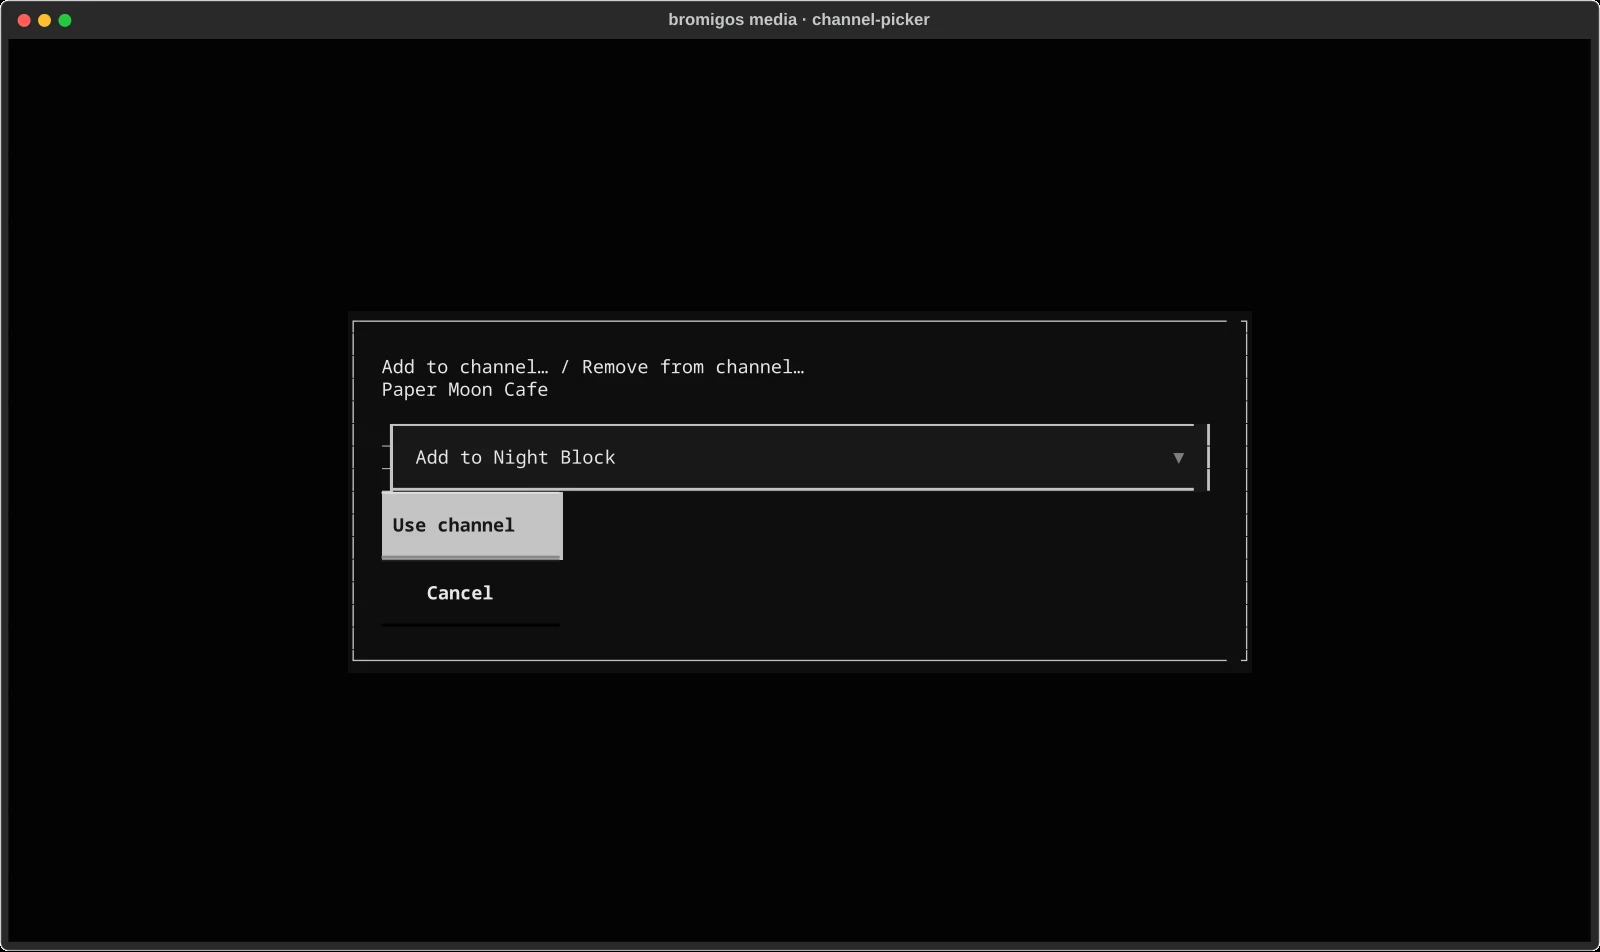
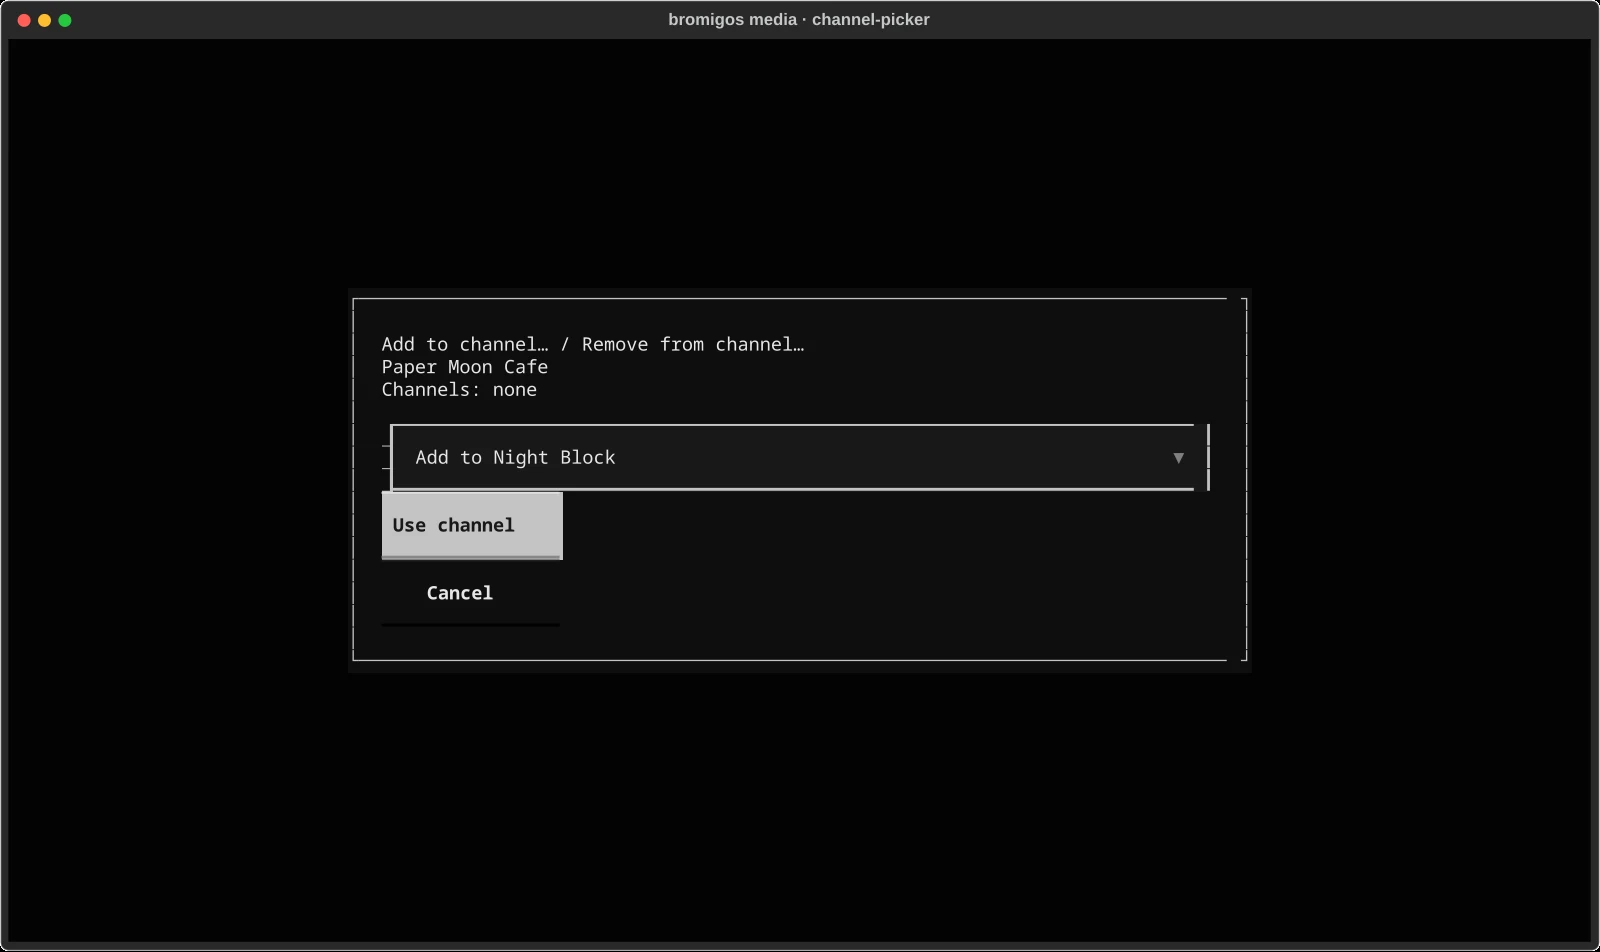
Show channel memberships on Media selections and hover hints
List channel names beside the Add button and on every title hover hint. Keep artist and album selections separate, refresh memberships after edits, and mark existing picks with a remove choice.

Changed region(s): [[0.2188, 0.3046, 0.75, 0.4265]]

diff --git a/homelab/lib/bromigos_homelab/mediatui.py b/homelab/lib/bromigos_homelab/mediatui.py
@@ -131,6 +131,16 @@ class MediaTable(HintTable):
         else:
             super().action_cursor_up()
 
+    def fill(self, columns, rows, hints, base_hint=""):
+        self.channel_base_hints = list(hints)
+        hints = [self.app.channel_hint(self, index, hint) for index, hint in enumerate(self.channel_base_hints)]
+        super().fill(columns, rows, hints, base_hint)
+
+    def refresh_membership(self):
+        self.hints = [self.app.channel_hint(self, index, hint)
+                      for index, hint in enumerate(getattr(self, "channel_base_hints", []))]
+        self.watch_hover_coordinate(self.hover_coordinate, self.hover_coordinate)
+
 
 # ------------------------------------------------------------------ dialogs
 class Confirm(ModalScreen):
@@ -351,13 +361,16 @@ class ChannelPicker(ModalScreen):
         options = [("New channel…", "new")]
         for row in self.rows:
             if row['kind'] == 'picked':
-                options.append(("Add to " + row['name'], f"add:{row['number']}"))
                 if CH.membership(self.title_, [row]):
-                    options.append(("Remove from " + row['name'], f"remove:{row['number']}"))
+                    options.append(("Already in " + row['name'] + " — remove", f"remove:{row['number']}"))
+                else:
+                    options.append(("Add to " + row['name'], f"add:{row['number']}"))
         with Vertical(id="channel-box"):
             yield Label("Add to channel… / Remove from channel…")
             label = self.title_.split(':',2)[-1] if self.title_.startswith('music:') else self.title_
             yield Label(label)
+            names = [row['name'] for row in CH.membership(self.title_, self.rows)]
+            yield Label("Channels: " + (", ".join(names) or "none"), id="channel-membership", markup=False)
             yield Select(options, value=options[0][1], allow_blank=False, id="channel-pick")
             if any(r['kind'] == 'library' for r in self.rows):
                 yield Label("Library channels already include everything in their library.")
@@ -513,7 +526,8 @@ class MediaApp(App):
                         yield Button(label, id="ch-" + ident)
         with Horizontal(id="title-actions"):
             yield Button("Add to channel… (c)", id="title-channel", tooltip="Choose a channel for the selected title")
-            yield Static("Select a title, then add it to a channel. Choose the channel and confirm.", markup=False)
+            yield Static("Select a title to see its channels. Use c or the button to change them.",
+                         id="title-membership", markup=False)
         yield Static("", id="hint")
         yield Static("↑/↓ j/k move · g/G first/last · Ctrl+D/U page · Enter open · ←/→ h/l tabs/panes\n"
                      "↓/j tabs → list · ↑/k first row → tabs · [/] H/L tabs · Ctrl+C/q quit", id="nav", markup=False)
@@ -537,11 +551,46 @@ class MediaApp(App):
     def on_descendant_focus(self, event: events.DescendantFocus):
         if isinstance(event.widget, HintTable) and not isinstance(self.screen, ModalScreen):
             self.channel_focus = event.widget
+            self.update_membership(event.widget, event.widget.cursor_row)
+
+    def channel_title(self, table, index):
+        tid = table.id or ""
+        if tid.endswith("-list") and tid.split("-")[0] in self.shown:
+            records = self.shown[tid.split("-")[0]]
+        elif tid == "music-sub":
+            records = self.subrows["music"]
+            return "music:album:" + records[index]["title"] if 0 <= index < len(records) else None
+        elif tid == "tv-sub":
+            return (self.current("tv")[1] or {}).get("title")
+        else:
+            records = {"search-list": self.found, "up-list": self.upcoming_rows,
+                       "dl-list": self.download_rows, "yt-list": self.youtube_rows}.get(tid, [])
+        if not 0 <= index < len(records):
+            return None
+        record = records[index]
+        return (record.get("original_url") or record.get("url")) if tid == "yt-list" else record.get("title")
+
+    def channel_hint(self, table, index, hint):
+        title = self.channel_title(table, index)
+        if not title:
+            return hint
+        names = [row["name"] for row in CH.membership(title, self.channel_rows)]
+        return hint + " · Channels: " + (", ".join(names) or "none")
+
+    def update_membership(self, table, index):
+        title = self.channel_title(table, index)
+        names = [row["name"] for row in CH.membership(title, self.channel_rows)] if title else []
+        self.query_one("#title-membership", Static).update(
+            "Channels: " + (", ".join(names) or "none") + " · c to add or remove"
+            if title else "Select a title to see its channels. Use c or the button to change them.")
 
     @on(TabbedContent.TabActivated, "#tabs")
     def title_actions(self, event):
         try:
             self.query_one("#title-actions").display = event.pane.id != "channels"
+            if event.pane.id != "channels":
+                table = event.pane.query_one(MediaTable)
+                self.update_membership(table, table.cursor_row)
         except NoMatches:
             pass
 
@@ -654,6 +703,8 @@ class MediaApp(App):
         pane = next((w for w in ev.data_table.ancestors if isinstance(w, TabPane)), None)
         if pane and pane.id == self.query_one("#tabs", TabbedContent).active:
             self.query_one("#hint", Static).update(ev.data_table.tooltip or "")
+            if self.focused is ev.data_table or self.channel_focus is ev.data_table:
+                self.update_membership(ev.data_table, ev.cursor_row)
 
     @on(HintTable.RowSelected)
     def _enter(self, ev):
@@ -1139,6 +1190,12 @@ class MediaApp(App):
             self.show_upcoming(self.upcoming_rows)
             self.show_youtube(self.youtube_rows)
             self.show_found(self.found, focus=False)
+            for media_table in self.query(MediaTable):
+                media_table.refresh_membership()
+            focused = self.channel_focus
+            pane = next((w for w in focused.ancestors if isinstance(w, TabPane)), None) if focused else None
+            if pane and pane.id == self.query_one("#tabs", TabbedContent).active:
+                self.update_membership(focused, focused.cursor_row)
 
     def show_channel(self, index):
         row = self.channel_rows[index] if 0 <= index < len(self.channel_rows) else None

diff --git a/homelab/tests/test_media_tui.py b/homelab/tests/test_media_tui.py
@@ -399,8 +399,14 @@ class TUI(Stack):
                 self.assertIsInstance(app.screen,T.ChannelPicker,tab)
                 title=app.screen.title_
                 if value:self.assertEqual(title,value)
-                app.screen.query_one('#channel-pick').value='add:1'
-                await pilot.click('#channel-use');await self.settle(app,pilot,2)
+                picker = app.screen.query_one('#channel-pick')
+                if T.CH.membership(title, [app.channel_rows[0]]):
+                    # Search can find the same film already added from Movies.
+                    picker.value = 'remove:1'
+                    await pilot.press('escape');await pilot.pause()
+                else:
+                    picker.value = 'add:1'
+                    await pilot.click('#channel-use');await self.settle(app,pilot,2)
                 rows=app.channel_store.load().channels()[0]
                 self.assertIn(title,rows['items'] if tab in ('movies','music','youtube','search') else rows['shows'])
         self.run_app(fn)
@@ -414,6 +420,20 @@ class TUI(Stack):
             table.focus()
             await pilot.pause()
             album = app.subrows["music"][table.cursor_row]["title"]
+            artist = app.current("music")[1]["title"]
+            app.channel_store.item("Night Block", "music:album:" + album, item_kind="music")
+            app.channel_store.create(name="Artists", items=["music:artist:" + artist])
+            app.load_channels()
+            await self.settle(app, pilot, 3)
+            table.focus()
+            await pilot.pause()
+            self.assertIn("Night Block", str(app.query_one("#title-membership").render()))
+            app.query_one("#music-list").focus()
+            await pilot.pause()
+            self.assertIn("Artists", str(app.query_one("#title-membership").render()))
+            self.assertNotIn("Night Block", str(app.query_one("#title-membership").render()))
+            table.focus()
+            await pilot.pause()
             await pilot.click("#title-channel")
             await pilot.pause()
             self.assertEqual(app.screen.title_, "music:album:" + album)
@@ -440,6 +460,41 @@ class TUI(Stack):
             await pilot.press("tab", "enter")
             await self.settle(app, pilot, 3)
             self.assertIn(title, app.channel_store.load().channels()[0]["shows"])
+        self.run_app(fn)
+
+    def test_selected_and_hovered_title_names_its_channels_and_refreshes_after_removal(self):
+        self.seed_channels()
+        async def fn(app, pilot):
+            table = app.query_one("#tv-list")
+            title = table.get_row_at(0)[1]
+            app.channel_store.item("Night Block", title)
+            app.channel_store.create(name="Weekend", shows=[title])
+            app.load_channels()
+            await self.settle(app, pilot, 3)
+            table.focus()
+            await pilot.pause()
+            membership = str(app.query_one("#title-membership").render())
+            self.assertIn("Night Block", membership)
+            self.assertIn("Weekend", membership)
+            await pilot.hover("#tv-list", offset=(10, 1))
+            await pilot.pause()
+            self.assertIn("Night Block", table.tooltip)
+            self.assertIn("Weekend", table.tooltip)
+            self.shot(app, "channel-membership")
+            await pilot.press("c")
+            await pilot.pause()
+            self.assertIn("Night Block", str(app.screen.query_one("#channel-membership").render()))
+            selector = app.screen.query_one("#channel-pick")
+            options = dict((value, str(label)) for label, value in selector._options)
+            self.assertIn("Already in Night Block", options["remove:1"])
+            self.assertNotIn("add:1", options)
+            selector.value = "remove:1"
+            await pilot.click("#channel-use")
+            await self.settle(app, pilot, 3)
+            membership = str(app.query_one("#title-membership").render())
+            self.assertNotIn("Night Block", membership)
+            self.assertIn("Weekend", membership)
+            self.assertIn("Channels: Weekend", table.hints[0])
         self.run_app(fn)
 
     def test_create_and_reorder_channels(self):

diff --git a/docs/ASSETS.md b/docs/ASSETS.md
@@ -280,8 +280,8 @@ no likeness and no lab hosts.
 - **`dictation.webp`**, on Dictation. The real dictation panel in a nested Hyprland,
   cropped from `desktop/tests/e2e_dictation_nested.py --shots DIR`, with synthetic audio
   and a made-up transcript. The microphone and audio meter are drawn in code.
-- **`media-library.webp`**, **`media-search.webp`**, **`media-channel-picker.webp`** and **`media-delete.webp`**, on The lab console and Your media
-  pages. `bromigos media`'s TV and Search tabs, channel picker and Delete/Cancel question, exported by its tests
+- **`media-library.webp`**, **`media-search.webp`**, **`media-channel-picker.webp`**, **`media-channel-membership.webp`** and **`media-delete.webp`**, on The lab console and Your media
+  pages. `bromigos media`'s TV and Search tabs, channel picker, membership labels and Delete/Cancel question, exported by its tests
   (`homelab/tests/test_media_tui.py`, `MEDIA_SCREENSHOTS=DIR`) from a fake media stack with
   made-up titles, converted from SVG at 1600 wide.
 - **`menu.webp`**, on The menu page. The menu with a search typed, rendered offscreen

diff --git a/docs/lab.md b/docs/lab.md
@@ -402,7 +402,10 @@ terminal. Without a terminal, both print the Requests card instead.
   live CLI. **Add to channel… (c)** below the active title tab opens add/remove/new
   choices; `c` opens the same picker. Choose an **Add to** entry, then **Use channel**.
   The button retains table focus before opening, so a selected album stays selected.
-  A diamond marks channel membership. The Channels tab shows contents, order, bumpers, screens and now/next;
+  A diamond marks channel membership. Each row’s hover hint includes the channel
+  names, and the selected row’s names stay visible beside the Add button. Membership
+  hints update when channel contents change. The picker lists current memberships
+  and replaces duplicate Add choices with **Already in … — remove**. The Channels tab shows contents, order, bumpers, screens and now/next;
   its controls edit picks, reorder, tune, rename and confirm deletion, with undo.
   A cache-only poll updates screens and now/next every five seconds without cancelling
   slower content fetches. Reordering keeps the selected channel or pick.

diff --git a/manual/src/media.md b/manual/src/media.md
@@ -229,7 +229,13 @@ You can also choose **Remove from…** or **New channel…**.
 
 ![The Media channel picker with Add to Night Block selected](images/media-channel-picker.webp)
 
-A small diamond marks titles already in a channel. Adding something to a channel does not download it; it must be
+A small diamond marks titles already in a channel. Select or hover over a title to
+see its channel names. The names also stay visible beside **Add to channel…**.
+The picker lists its current channels and marks **Already in … — remove**.
+
+![A selected show marked with a diamond and the channel names Night Block and Weekend](images/media-channel-membership.webp)
+
+Adding something to a channel does not download it; it must be
 available from the media server or YouTube. Music plays through the den's sound controls.
 
 On **Channels**, `Ctrl+N` adds a channel, `F2` renames it, `v` changes its order, and `b`

diff --git a/manual/src/commands.md b/manual/src/commands.md
@@ -79,7 +79,7 @@ This page lists the commands by task first, then each one in full.
 |---|---|
 | [`bromigos setup homelab`](#bromigos-setup-homelab) | Find [your homelab](homelab.md)'s services and connect them. |
 | [`bromigos homelab`](#bromigos-homelab) | See what's connected from your homelab, and what doesn't answer. |
-| [`bromigos media`](#bromigos-media) | Open [Your media](media.md) in the terminal: find and request media, add titles to channels, monitor, play or delete shows, films and albums. |
+| [`bromigos media`](#bromigos-media) | Open [Your media](media.md) in the terminal: find and request media, see and change their channels, monitor, play or delete shows, films and albums. |
 | [`bromigos lab`](#bromigos-lab) | Open [the lab console](lab.md): your homelab's status, its GPUs, and jobs to run on them. |
 
 ### Apps, extensions and the menu

diff --git a/homelab/README.md b/homelab/README.md
@@ -66,7 +66,9 @@ The main modules in `lib/bromigos_homelab/`:
 
 The media library shows **Add to channel… (c)** below each title tab. Select a title
 or album, use the button or `c`, choose **Add to** a picked channel, then **Use channel**.
-The button preserves the selected Music album when it opens the picker.
+The button preserves the selected Music album when it opens the picker. The selected
+row’s channel names stay visible beside it; hovering over a row shows the same names.
+The picker lists current memberships and marks **Already in** entries for removal.
 
 The media library’s tab bar uses `Left`/`Right` or `h`/`l` to select a tab.
 `Down`/`j` enters its table; `Up`/`k` at the first row returns to the tab bar.

diff --git a/manual/src/lab.md b/manual/src/lab.md
@@ -396,7 +396,9 @@ then press a key:
 | `/`, `s` | Filter by name, and change the sort: newest, size, name, missing, profile |
 
 **Add to channel… (c)** below the list puts the selected title in a picked channel.
-Choose the channel’s **Add to** entry, then **Use channel**.
+Choose the channel’s **Add to** entry, then **Use channel**. The selected title’s
+channel names stay visible beside the button and in the row’s hover hint. A diamond
+marks a title already in a channel.
 
 Hover over anything to see what it does. The [media guide](media.md#make-channels-for-the-den-tv)
 covers Channels, its keys and CLI commands.
